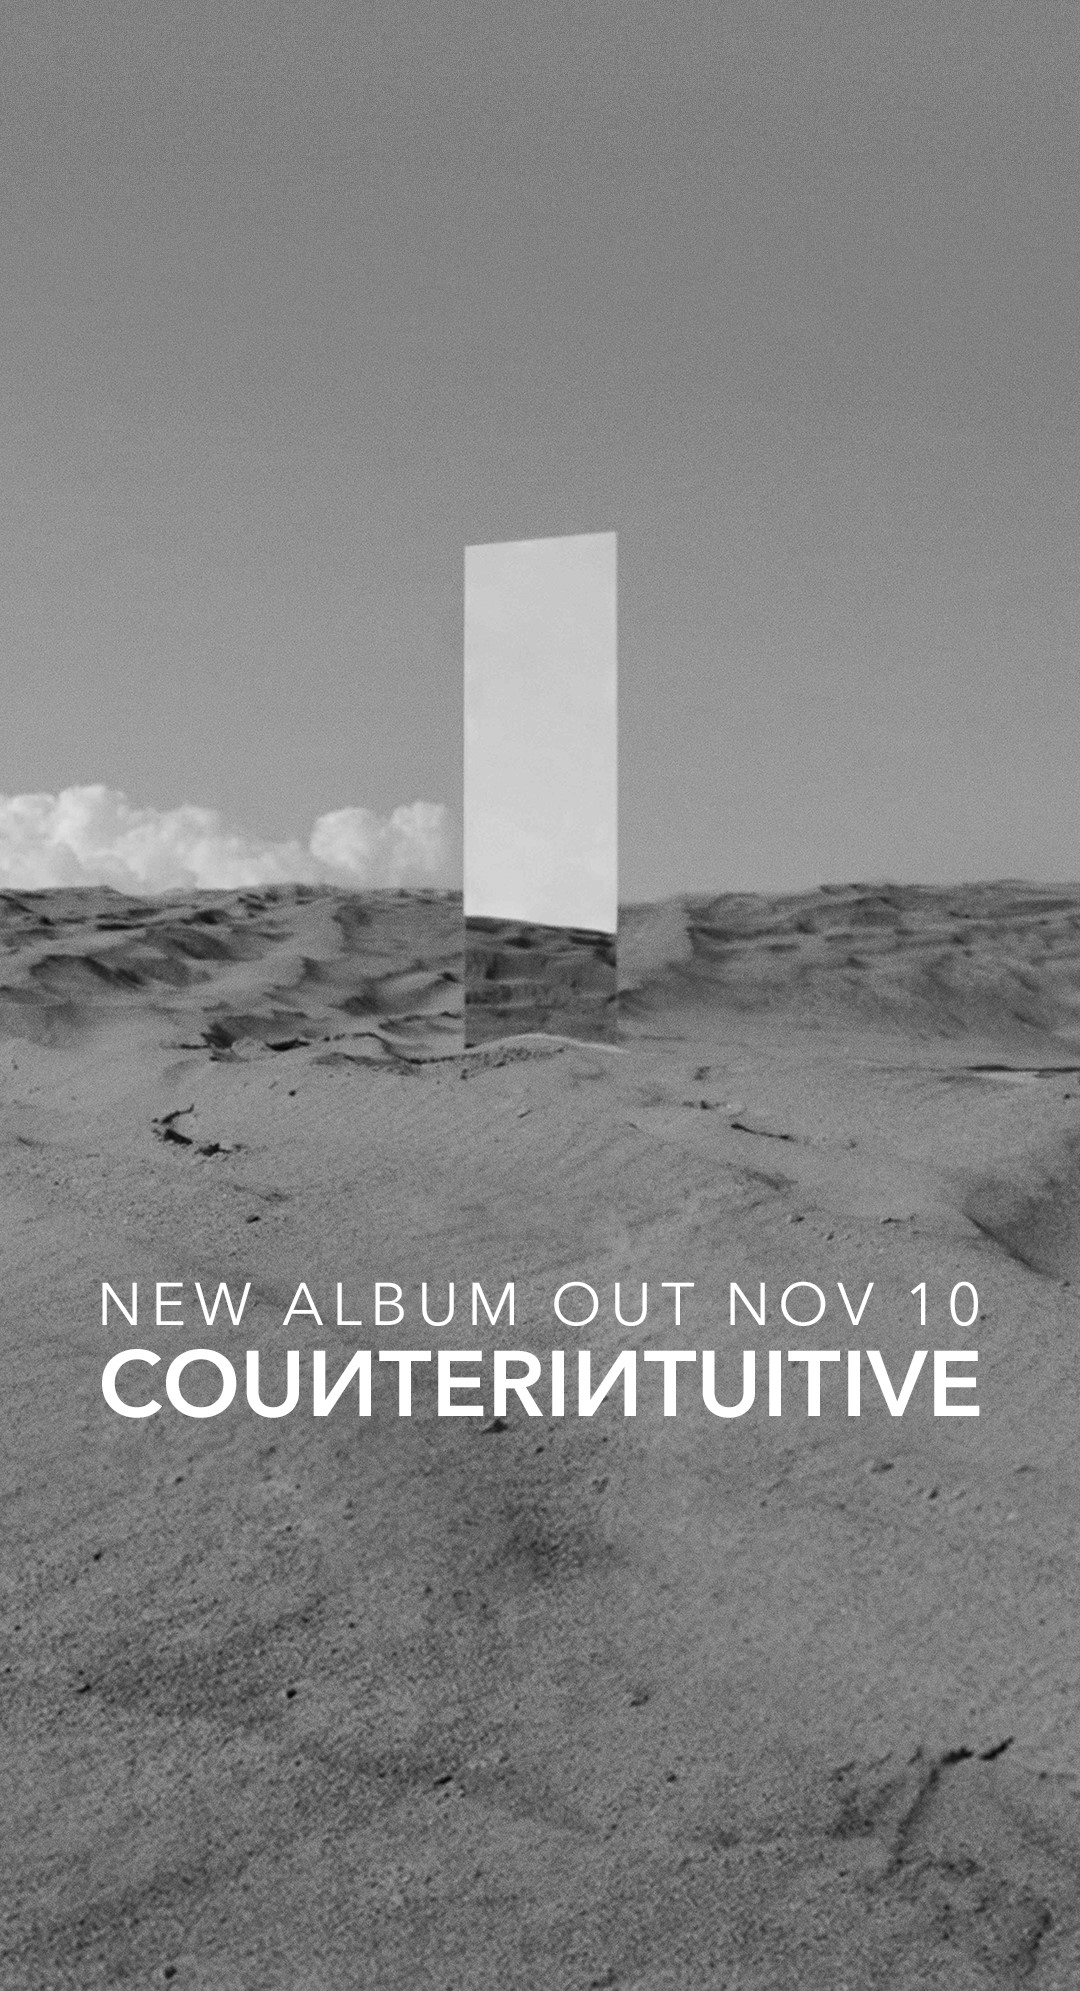
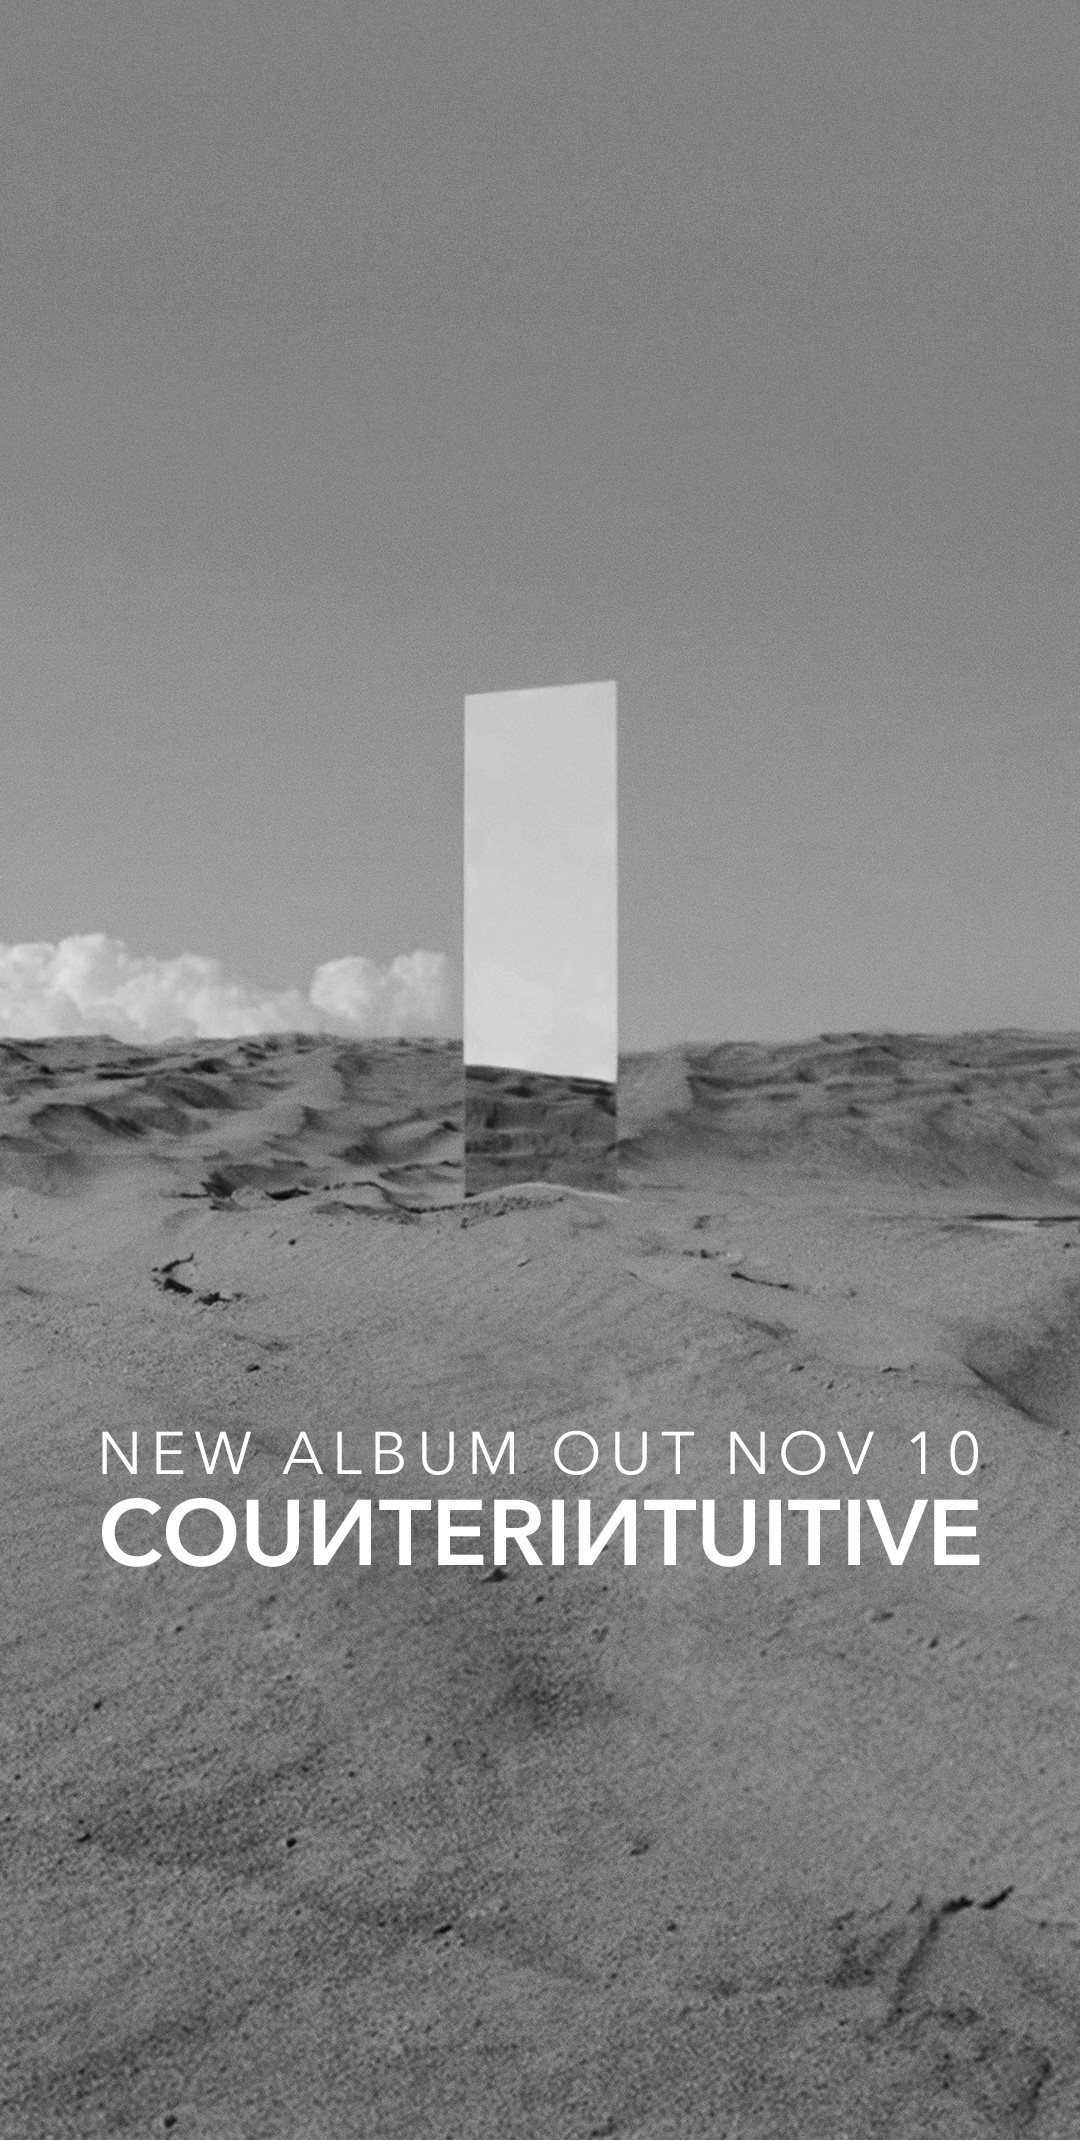
vertical artwork

diff --git a/new.html b/new.html
@@ -33,7 +33,7 @@
 		<!-- <img src="https://cdn.discordapp.com/attachments/1053303866738888776/1148403865335631912/moarpizzapls_People_in_the_distance_e1862bd8-223f-421d-8eb8-9b8c055ac8d3.png" 
         alt="Large Image" class="img-fluid" style="width: 100%;" /> -->
     <img id="artwork-horizontal" src="webwide.jpg" alt="Large Image" class="img-fluid" />
-    <img id="artwork-vertical" src="webmobile 380 800 - Copy.jpg" alt="Large Image" class="img-fluid" />
+    <img id="artwork-vertical" src="webmobile 380 800.jpg" alt="Large Image" class="img-fluid" />
 		<!-- <div id="main-buttons">
 			<p>!!!SNOI!!!</p>
 			<p>NEW ALBUM COMING OUT SOON!!!</p>

diff --git a/web-styles.css b/web-styles.css
@@ -17,9 +17,6 @@ html {
         display: none;
     }
 }
-#artwork-vertical {
-    
-}
 
 .navbar-fixed {
     background-color: transparent;
